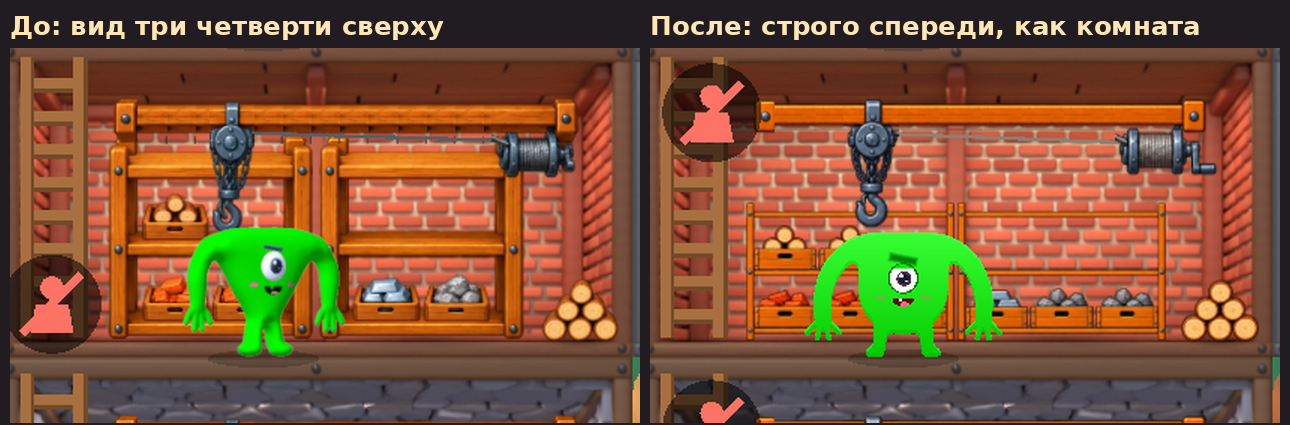
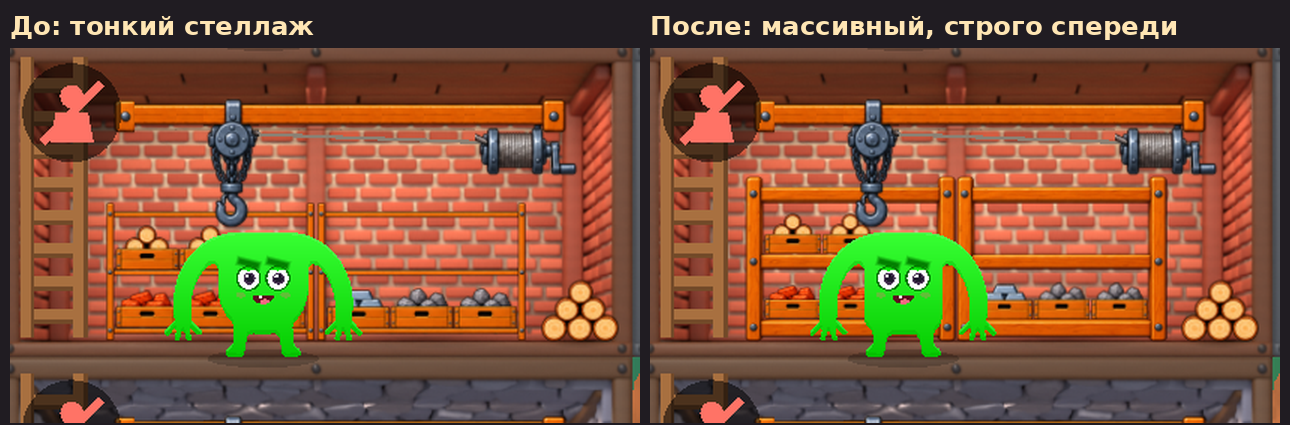
Склад: массивный стеллаж строго спереди (перерисован ChatGPT), по три ящика на полку
Claude-Session: https://claude.ai/code/session_01Gsst3hFuf1c6zM4f6Jt7o5

diff --git a/art_src/rooms/cut_sheets.py b/art_src/rooms/cut_sheets.py
@@ -12,11 +12,11 @@ HERE = os.path.dirname(os.path.abspath(__file__))
 OUT = os.path.join(HERE, '..', '..', 'assets', 'furniture')
 PX_PER_M = 128    # пикселей на метр в спрайте (клетка в игре — 1 м, 32 px; запас под зум)
 
-# Лист: (файл, {предмет: (точка внутри x, y на листе, ширина в метрах[, склейка деталей px])}).
+# Листы: [(комната, файл, {предмет: (точка внутри x, y на листе, ширина в метрах[, склейка px])})].
 # Склейка — на сколько пикселей расширять маску, чтобы детали одного предмета (листья, цепь)
 # собрались вместе; у плотно стоящих предметов (ящики) — меньше, чтобы не слиплись соседи.
-SHEETS = {
-    'home': ('home_items.png', {
+SHEETS = [
+    ('home', 'home_items.png', {
         'bed_blue': (200, 160, 1.8), 'bed_pink': (580, 160, 1.8),
         'bed_green': (950, 160, 1.8), 'bed_yellow': (1330, 160, 1.8),
         'nightstand': (218, 500, 0.5), 'bookcase': (566, 430, 0.6),
@@ -26,8 +26,8 @@ SHEETS = {
         'plush': (703, 905, 0.32),
     }),
     # Склад — строго спереди (верх полок и ящиков не виден), как комната.
-    'storage': ('storage_items_front.png', {
-        'rack': (400, 60, 2.0, 6), 'hoist': (1200, 80, 2.2, 8),
+    ('storage', 'storage_items_front.png', {
+        'hoist': (1200, 80, 2.2, 8),
         'crate': (249, 427, 0.6, 2), 'crate_stone': (509, 427, 0.6, 2), 'crate_wood': (768, 427, 0.6, 2),
         'crate_brick': (1027, 427, 0.6, 2), 'crate_metal': (1287, 427, 0.6, 2),
         'crate_coal': (249, 593, 0.6, 2), 'crate_iron': (509, 593, 0.6, 2), 'crate_copper': (768, 593, 0.6, 2),
@@ -36,7 +36,11 @@ SHEETS = {
         'crate_clay': (1027, 753, 0.6, 2), 'crate_limestone': (1287, 753, 0.6, 2),
         'barrel': (640, 907, 0.55, 3), 'logs': (913, 920, 0.75, 3),
     }),
-}
+    # Массивный стеллаж — перерисован отдельно (на листе он был из тонких планок).
+    ('storage', 'storage_rack_front_thick.png', {
+        'rack': (760, 170, 2.0, 6),
+    }),
+]
 
 
 # Части предмета (рамки в пикселях готового спрайта) — если предмет собирают из кусков.
@@ -133,12 +137,12 @@ def cut(room, sheet, items):
         for part, box in PARTS.get(room, {}).get(name, {}).items():
             sprite.crop(box).save(os.path.join(OUT, room, part + '.png'))
         if name == 'rack':
-            tall, levels = stretch_rack(sprite, 0.5)
+            tall, levels = stretch_rack(sprite, 0.48)
             tall.save(os.path.join(OUT, room, 'rack_tall.png'))
             print(room, 'rack_tall', tall.size, '— верх планок над полом, м:', levels)
 
 
 if __name__ == '__main__':
-    for room, (sheet, items) in SHEETS.items():
+    for room, sheet, items in SHEETS:
         if os.path.exists(os.path.join(HERE, 'sheets', sheet)):
             cut(room, sheet, items)
